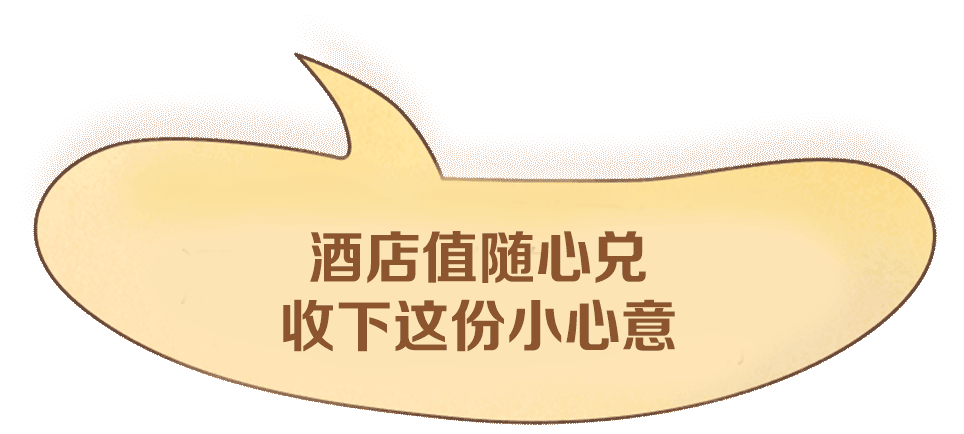
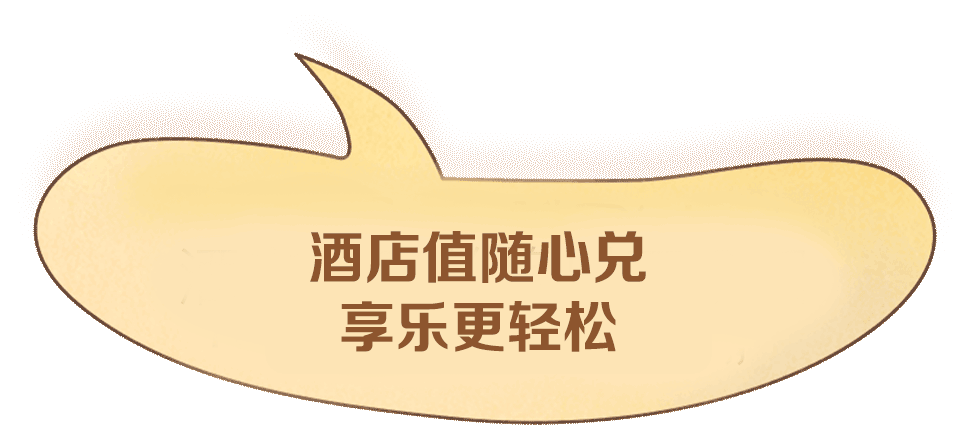
fix: 更换服务员talk fix: 贝壳下面增加酒店名

Changed region(s): [[0.2801, 0.6889, 0.7158, 0.8088]]

diff --git a/src/spdb-hotal/scss/page-f.scss b/src/spdb-hotal/scss/page-f.scss
@@ -7,10 +7,10 @@
     @include background-obj('../img/f6/talk.png', 776px, 343px, -150%, -150%, initial, initial);
   }
   &__shell {
-    @include background-obj('../img/f6/shell.gif', 315px, 227px, initial, initial, 3%, 5%);
+    @include background-obj('../img/f6/shell.gif', 315px, 227px, initial, initial, 10%, 8%);
   }
   &__shell2 {
-    @include background-obj('../img/f6/shell2.png', 315px, 227px, initial, initial, 3%, 5%);
+    @include background-obj('../img/f6/shell2.png', 315px, 227px, initial, initial, 10%, 8%);
   }
   &__hand {
     @include background-obj('../img/f6/hand.png', 763px, 939px, 18%, initial, initial, 0);
@@ -18,5 +18,8 @@
   }
   &__bill {
     @include background-obj('../img/f6/bill.png', 397px, 596px, 1%, 22%, initial, initial);
+  }
+  &__hotals {
+    @include background-obj('../img/f6/hotals.png', 322px, 233px, initial, initial, 0, 0);
   }
 }

diff --git a/src/spdb-hotal/index.html b/src/spdb-hotal/index.html
@@ -82,6 +82,7 @@
     </section>
     <section class="page-f op-bg-adaptive op-hidden">
       <figure class="page-f__shell2"></figure>
+      <figure class="page-f__hotals"></figure>
       <figure class="page-f__shell op-hidden">
         <figure class="page-f__talk op-hidden"></figure>
       </figure>
